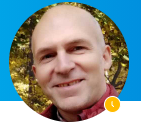
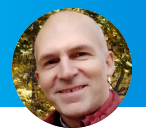
Add files via upload

diff --git a/index.html b/index.html
@@ -18,8 +18,7 @@
   </head>
   <body>
 
-<section class="banner"> <h4>World's Coolest Boss</h4></section>
-
+<section> <h4>World's Coolest Boss</h4></section>
 
 
 <section class = "top">
@@ -34,7 +33,7 @@
   </div>
 
   <div class "col">
-    <image class= "linda" src="images/Linda2.png"> </image>
+    <image class= "linda" src="images/Linda3.png"> </image>
     <h1 class = greeting ></h1>
     <!-- <image class= "headertalk" src="images/talkbub.png"> </image> -->
   </div>
@@ -63,9 +62,9 @@
           <h3 class="feature-title">Makes work fun</h3>
           <p>You'll love showing up to work</p>
         </div>
-
+      <image class= "pickle" src="images/pickleball.png"> </image>
       </div>
-<image class= "pickle" src="images/pickleball.png"> </image>
+
 </section>
 
  <section class="bottom" id="testimonials">
@@ -77,15 +76,10 @@
          <img class="testimonial-image" src="images/Adam.png" alt="Adam">
          <!-- <em>Adam, Massachusetts</em> -->
        </div>
-       <div class="carousel-item container-fluid">
-         <h2 class="testimonial-text">Roses are red. Violets are blue. </br>Happy birthday Linda! I didn't think this through.</h2>
-         <img class="testimonial-image" src="images/Mani.png" alt="Mani">
-         <!-- <em>Mani, Bangalore</em> -->
-       </div>
 
        <div class="carousel-item container-fluid">
          <h2 class="testimonial-text">Happy birthday Linda!! Hope it’s a good one <span> 😀 </span></h2>
-         <img class="testimonial-image" src="images/kate.png" alt="Kate">
+         <img class="testimonial-image" src="images/Kate2.png" alt="Kate">
          <!-- <em>Kate, Toronto</em> -->
        </div>
 
@@ -105,21 +99,35 @@
          <img class="testimonial-image" src="images/Nikita.png" alt="Nikita">
          <!-- <em>Siva, Toronto</em> -->
        </div>
+
+       <div class="carousel-item container-fluid">
+         <h2 class="testimonial-text">Roses are red. Violets are blue. </br>Happy birthday Linda! I didn't think this through.</h2>
+         <img class="testimonial-image" src="images/Mani.PNG" alt="Mani">
+         <!-- <em>Mani, Bangalore</em> -->
+       </div>
+
        <div class="carousel-item container-fluid">
          <h2 class="testimonial-text">There is a lady, guess who. She has a talent for telling them what to do.</br>
                                   Now you must figure out. How they'll greet her birthday without a thought.</br>
                                   Just exclaiming one word—Woohoo!</h2>
-         <img class="testimonial-image" src="images/Dmitry.PNG" alt="Dmitry">
+         <img class="testimonial-image" src="images/Dmitry1.png" alt="Dmitry">
          <!-- <em>Siva, Toronto</em> -->
        </div>
        <div class="carousel-item container-fluid">
-         <h2 class="testimonial-text">Happy birthday to an ever smiling and an awesome person. </br> Hope your day filled with so much laughter and wonderful moments. Have a fabulous day Linda! <span> 😀 </span></h2>
+         <h2 class="testimonial-text">Happy birthday to an ever smiling and an awesome person. </br> Hope your day filled with so much laughter and wonderful moments. </br>Have a fabulous day Linda! <span> 😀 </span></h2>
          <img class="testimonial-image" src="images/Maha.png" alt="Maha">
          <!-- <em>Siva, Toronto</em> -->
        </div>
        <div class="carousel-item container-fluid">
-         <h2 class="testimonial-text">Wishing you a year that is as cheerful as you are. May the joy you share with others, returns to you manyfold.</h2>
+         <h2 class="testimonial-text">Wishing you a year that is as cheerful as you are. </br>May the joy you share with others, return to you manyfold.</h2>
          <img class="testimonial-image" src="images/Poonam.png" alt="Poonam">
+         <!-- <em>Siva, Toronto</em> -->
+       </div>
+
+       <div class="carousel-item container-fluid">
+         <h2 class="testimonial-text">Happy Birthday Linda!</br>
+                                  Never a boss, always a colleague and a laughter therapist!</h2>
+         <img class="testimonial-image" src="images/Shaheen.png" alt="Shaheen">
          <!-- <em>Siva, Toronto</em> -->
        </div>
      </div>

diff --git a/styles.css b/styles.css
@@ -12,10 +12,10 @@ h1 {
 }
 
 .linda {
-  max-width: 100%;
-  max-height: 100%;
-  width: 250px;
-  height: 250px;
+  /* max-width: 100%;
+  max-height: 100%; */
+  /* width: 250px;
+  height: 250px; */
   position: relative;
   top: 50px;
   right: 200px;
@@ -40,25 +40,24 @@ h4 {
   }
 .top {
   background-color: #74BDCB;
-  height: 500px;
 
 }
 
 .banner {
-  height: 10vh;
+    background-color: #fff;
 }
 
 .middle {
   background-color: #fff;
   color: black;
-  height: 40vh;
+  /* height: 40vh; */
   text-align: center;
 }
 
 .bottom
 {
   background-color: #74BDCB;
-  height: 50vh;
+  /* height: 50vh; */
 
 }
 
@@ -112,13 +111,12 @@ left:100px;;}
   transform: rotate(25deg);
   position: relative;
   top: 150px;
-  left: 200px;
+  left: 210px;
 }
 
 
 #testimonials {
   background-color: #74BDCB;
-  height: 350px;
 }
 
 .testimonial-text {
@@ -177,14 +175,50 @@ left:100px;;}
     right: 160px;
     bottom: -110px;
 
+
   }
 
   .talkweekend {
     font-family: 'Anybody', cursive;
-    font-size: 20px;
+    font-size: 25px;
     font-weight: bold;
     color: #74BDCB;
     position: absolute;
     right: 300px;
+    background-color: white;
     bottom: -30px;
   }
+@media (max-width: 900px) {
+
+  .mug
+  {
+    max-width: 70%;
+    max-height: 70%;
+    transform: rotate(0deg);
+    position: static;
+    /* top: 150px;
+    left: 210px; */
+  }
+
+  .gatorPond{
+      max-width: 80%;
+      max-height: 80%;
+      position: static;
+      top:250px;
+      right:10px;
+  }
+
+  .top {
+    background-color: #74BDCB;
+    height: 300px;
+  }
+
+  .linda {
+    max-width: 50%;
+    max-height: 50%;
+    position: relative;
+    top: 75px;
+    right: 0px;
+  }
+
+}
